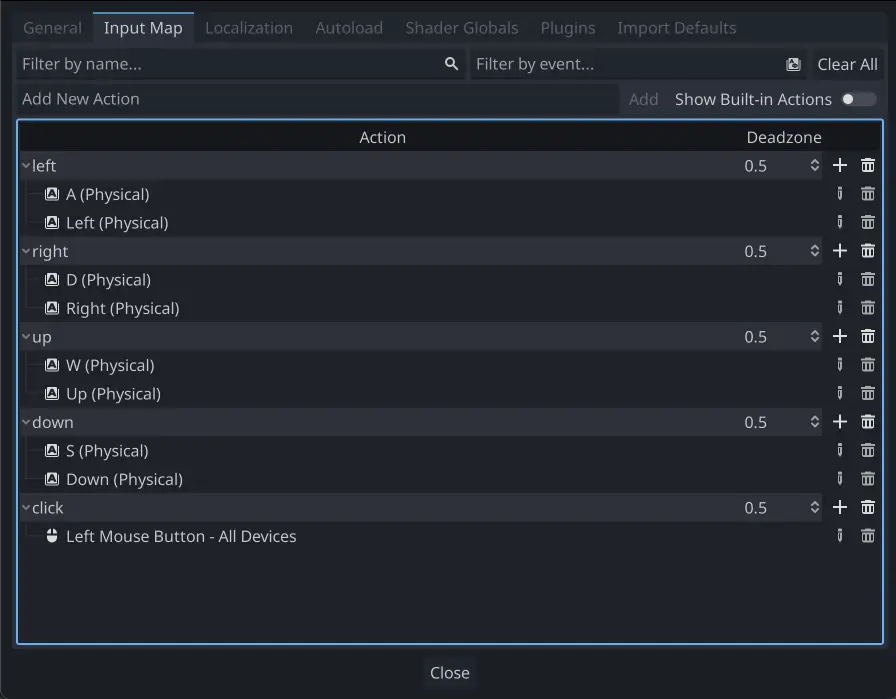
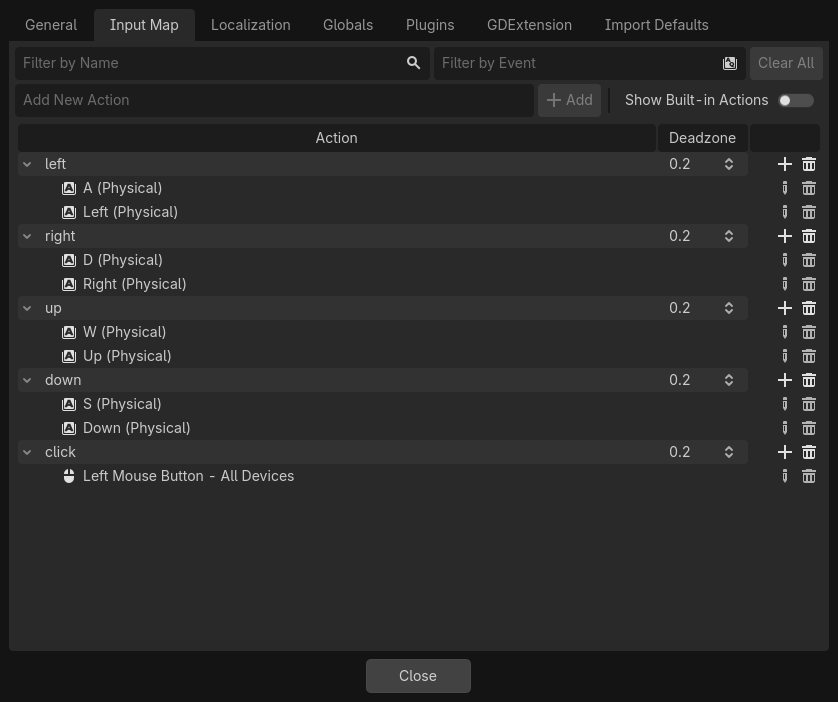
Update 2D movement page for 4.7

diff --git a/tutorials/2d/2d_movement.rst b/tutorials/2d/2d_movement.rst
@@ -10,7 +10,7 @@ Every beginner has been there: "How do I move my character?" Depending on the
 style of game you're making, you may have special requirements, but in general
 the movement in most 2D games is based on a small number of designs.
 
-We'll use :ref:`CharacterBody2D <class_CharacterBody2D>` for these examples,
+We'll use :ref:`class_CharacterBody2D` for these examples,
 but the principles will apply to other node types (Area2D, RigidBody2D) as well.
 
 .. _doc_2d_movement_setup:
@@ -22,7 +22,7 @@ Each example below uses the same scene setup. Start with a ``CharacterBody2D`` w
 children: ``Sprite2D`` and ``CollisionShape2D``. You can use the Godot icon (``icon.svg``)
 for the Sprite2D's texture or use any other 2D image you have.
 
-Open ``Project -> Project Settings`` and select the "Input Map" tab. Add the following
+Open :menu:`Project > Project Settings` and select the :button:`Input Map` tab. Add the following
 input actions (see :ref:`InputEvent <doc_inputevent>` for details):
 
 .. image:: img/movement_inputs.webp
@@ -82,8 +82,8 @@ Attach a script to the character body and add the following code:
         }
     }
 
-In the ``get_input()`` function, we use :ref:`Input <class_Input>` ``get_vector()`` to check for the
-four key events and sum return a direction vector.
+In the ``get_input()`` function, we use :ref:`Input.get_vector() <class_Input_method_get_vector>`
+to check for the four key events and sum return a direction vector.
 
 We can then set our velocity by multiplying this direction vector, which has a
 length of ``1``, by our desired speed.
@@ -217,9 +217,9 @@ is set by the mouse position instead of the keyboard. The character will always
         }
     }
 
-Here we're using the :ref:`Node2D <class_Node2D>` ``look_at()`` method to
-point the player towards the mouse's position. Without this function, you
-could get the same effect by setting the angle like this:
+Here we're using the :ref:`Node2D.look_at() <class_Node2D_method_look_at>` method to
+point the player towards the mouse's position. Without this function, you could get
+the same effect by setting the angle like this:
 
 .. tabs::
  .. code-tab:: gdscript GDScript
